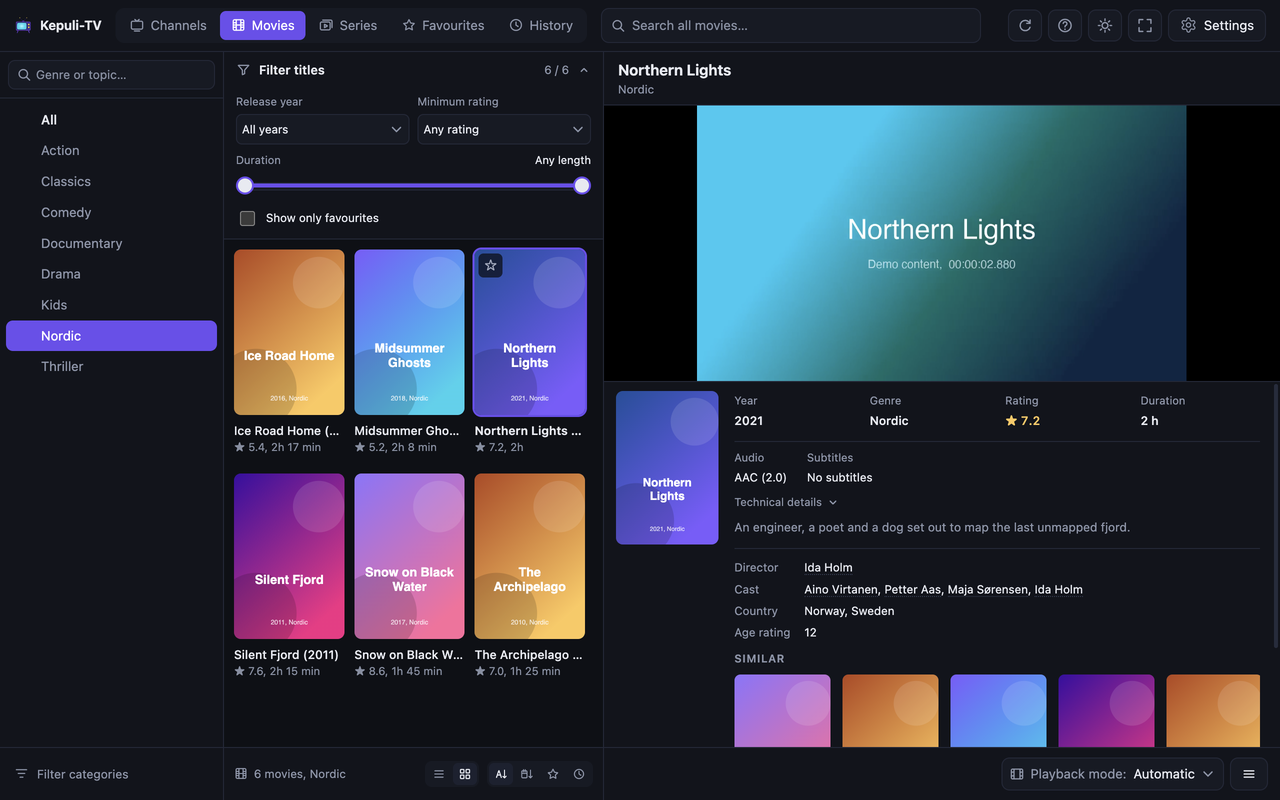
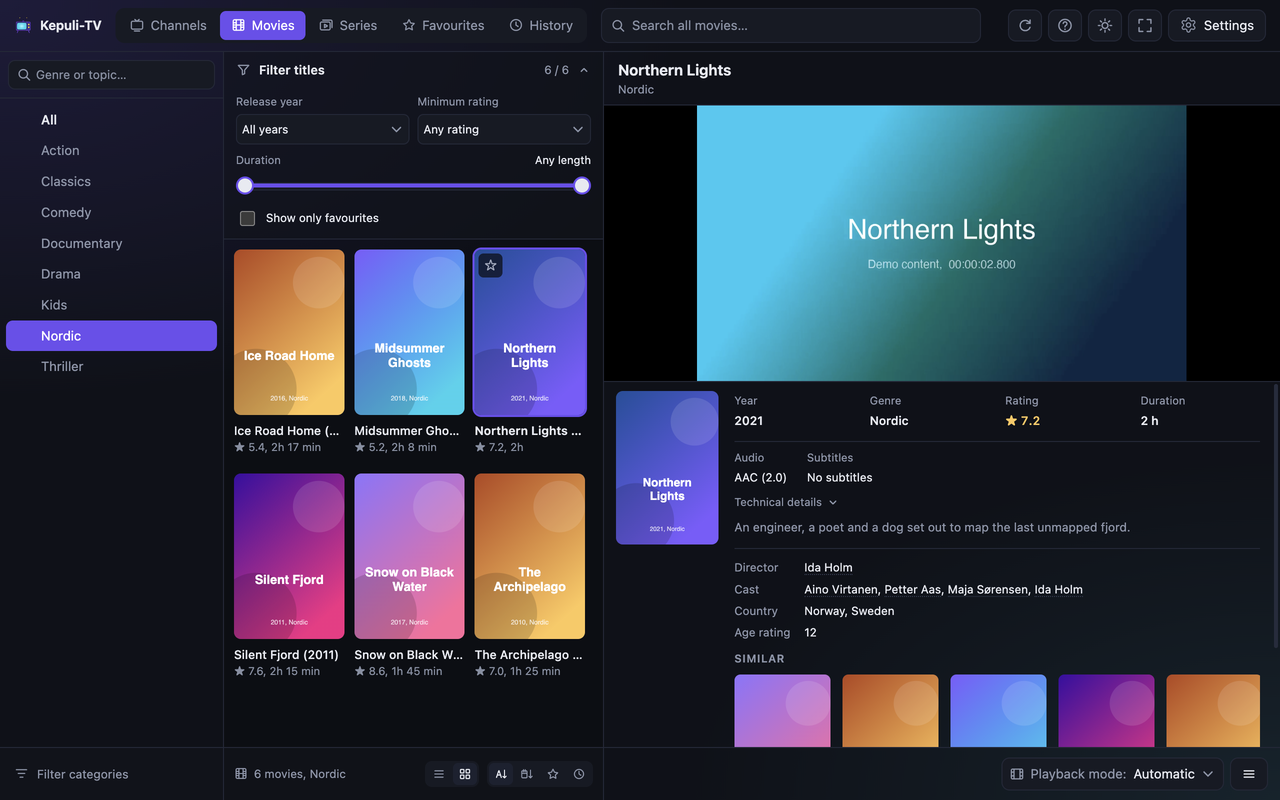
The page glows in the theme's colours behind see-through panes
The background was one flat colour under opaque panes. The body now carries
two soft radial glows, the accent from the top left and the second accent
from the bottom right, and the panes and the list are partly transparent
(--panel, --list-bg) so that the glow shows through them, more strongly in
the dark theme than in the light one.

What floats over a pane (dialogs, the pickers, the row menu, the playback
popover, the scroll arrows and the guide's sheet on a phone) stays on
--panel-solid, as the pane under it would show through otherwise. Asking
the system for more contrast or less transparency makes the panes solid
again. The visual references are retaken for the new look.

Claude-Session: https://claude.ai/code/session_011jsMnvavrX9QT7mi8kWFbA

Changed region(s): [[0.0, 0.0, 0.0938, 0.0938]]

diff --git a/css/player.css b/css/player.css
@@ -11,7 +11,13 @@
   /* The bars under the sidebar, the list and the player: one height. */
   --foot-h: 3.3125rem;
   --bg: #0a0c11;
-  --panel: #11141c;
+  /* The panes let the page's glow (body, below) through; what floats over
+     them (a dialog, a menu, a picker) is drawn on --panel-solid instead, as
+     the pane under it would show through otherwise. */
+  --panel-solid: #11141c;
+  --panel: color-mix(in srgb, #11141c 65%, transparent);
+  --glow-1: color-mix(in srgb, #6d4ff0 45%, transparent);
+  --glow-2: color-mix(in srgb, #22d3ee 26%, transparent);
   --panel-2: #161a24;
   --row-hover: #1c2130;
   --border: #232838;
@@ -51,7 +57,7 @@
      (on the dark disc every cover mark has, in either theme). */
   --seen: #7ee2a8;
   --seen-on-cover: #7ee2a8;
-  --list-bg: #0d1016;
+  --list-bg: color-mix(in srgb, #0d1016 55%, transparent);
   --selected: #202538;
   --row-line: rgba(35, 40, 56, .45);
   --danger-soft: #2b2230;
@@ -84,7 +90,10 @@
 :root[data-theme="light"],
 :root[data-theme="light"] .overlay.idle {
   --bg: #f3f4f8;
-  --panel: #ffffff;
+  --panel-solid: #ffffff;
+  --panel: color-mix(in srgb, #ffffff 65%, transparent);
+  --glow-1: color-mix(in srgb, #6d4ff0 22%, transparent);
+  --glow-2: color-mix(in srgb, #22d3ee 18%, transparent);
   --panel-2: #eef0f5;
   --row-hover: #e5e8f0;
   --border: #d6dae4;
@@ -104,7 +113,7 @@
   --gold: #805600;
   --gold-line: #e2cf9f;
   --seen: #146c43;          /* 6.4:1 on white, 5.1:1 on the selected row */
-  --list-bg: #fafbfd;
+  --list-bg: color-mix(in srgb, #ffffff 55%, transparent);
   --selected: #e2e6f3;
   --row-line: rgba(22, 25, 37, .08);
   --danger-soft: #fbe5ea;
@@ -135,6 +144,7 @@
    a page of the app rather than a picture. */
 :root[data-theme="light"] .videowrap {
   --bg: #0a0c11;
+  --panel-solid: #11141c;
   --panel: #11141c;
   --panel-2: #161a24;
   --row-hover: #1c2130;
@@ -185,6 +195,16 @@
   .row { border-bottom-color: var(--border); }
 }
 
+/* Asked for more contrast or less transparency, the panes are solid again
+   and the glow stays only where no pane covers it. */
+@media (prefers-contrast: more), (prefers-reduced-transparency: reduce) {
+  :root { --panel: var(--panel-solid); --list-bg: #0d1016; }
+  :root[data-theme="light"] { --panel: var(--panel-solid); --list-bg: #fafbfd; }
+}
+
+/* What floats over the panes is solid, whatever the pane under it. */
+dialog, .picker-pop, .row-menu, .pop, .side-scroll-arrow { --panel: var(--panel-solid); }
+
 /* Said to a screen reader and to nothing else: a badge shows "7 d" where the
    column has room for two characters, and the whole sentence goes here. */
 .sr-only {
@@ -210,9 +230,18 @@ html, body { height: 100%; margin: 0; overflow: hidden; }
    root is the reader's setting and stays untouched; everything the app draws
    is a fraction of it. */
 body {
-  background: var(--bg);
   color: var(--text);
   font: 0.8125rem/1.45 -apple-system, BlinkMacSystemFont, "Segoe UI", Inter, system-ui, sans-serif;
+}
+
+/* The page glows in the theme's two colours, the accent from the top left
+   and the second accent from the bottom right; the panes over it are
+   partly see-through (--panel, --list-bg) so that it shows. */
+body {
+  background:
+    radial-gradient(ellipse 75% 70% at 0% 0%, var(--glow-1), transparent 72%),
+    radial-gradient(ellipse 65% 60% at 100% 100%, var(--glow-2), transparent 72%),
+    var(--bg);
 }
 
 /* The page is a column of two: the bar and everything under it. The bar was

diff --git a/css/playback.css b/css/playback.css
@@ -2,7 +2,7 @@
 
 /* ----------------------------------------------------------- player */
 
-.stage { display: flex; flex-direction: column; min-width: 0; background: #06070a; }
+.stage { display: flex; flex-direction: column; min-width: 0; }
 .videowrap { flex: 1; position: relative; background: #000; min-height: 0; }
 video { width: 100%; height: 100%; display: block; background: #000; }
 
@@ -117,8 +117,7 @@ body[data-substyle="yellow"] { --cue-color: #ffe14d; }
 body[data-substyle="contrast"] { --cue-back: #000; }
 
 .overlay { position: absolute; inset: 0; display: grid; place-items: center; background: radial-gradient(circle at 50% 45%, #12151f, #06070a 70%); text-align: center; padding: 24px; }
-:root[data-theme="light"] .overlay.idle { background: var(--bg); color: var(--text); }
-:root[data-theme="light"] .stage { background: var(--bg); }
+:root[data-theme="light"] .overlay.idle { background: transparent; color: var(--text); }
 .overlay[hidden] { display: none; }
 .overlay-inner { max-width: 480px; }
 .overlay-head { margin-bottom: 6px; }

diff --git a/css/last.css b/css/last.css
@@ -61,6 +61,7 @@ input[type="search"], input[type="text"], input[type="url"], input:not([type]) {
   .epg-chan-rec { display: none; }
   main.guide > .epgview {
     position: fixed; left: 0; right: 0; bottom: 0; z-index: 20; max-height: 60vh; overflow-y: auto;
+    --panel: var(--panel-solid);  /* a sheet over the guide, which would show through */
     border: 1px solid var(--border); border-bottom: 0; border-radius: 14px 14px 0 0;
     padding-bottom: calc(14px + env(safe-area-inset-bottom, 0px));
     box-shadow: 0 -8px 24px rgba(0, 0, 0, .35);

diff --git a/css/AGENTS.md b/css/AGENTS.md
@@ -37,6 +37,12 @@ the page links them.
   `:root[data-theme="light"]`; the picture and the bar under it stay dark in
   both themes. `prefers-contrast: more` raises borders and muted text; check a
   new colour there too.
+- **The panes are see-through.** `--panel` and `--list-bg` are partly
+  transparent so that the page's glow (`--glow-1`, `--glow-2` on `body`)
+  shows through them. Anything that floats over a pane (a dialog, a menu, a
+  popover, a sheet) sets `--panel: var(--panel-solid)`, or the pane under it
+  shows through; add a new one to that rule in `player.css`. More contrast or
+  reduced transparency makes the panes solid again.
 - **Shared measures as variables**: `--foot-h` (3.3125rem, every column's footer
   is the same height), `--idle-gap`, `--pic-ratio`. Reuse them rather than
   repeating a number.
